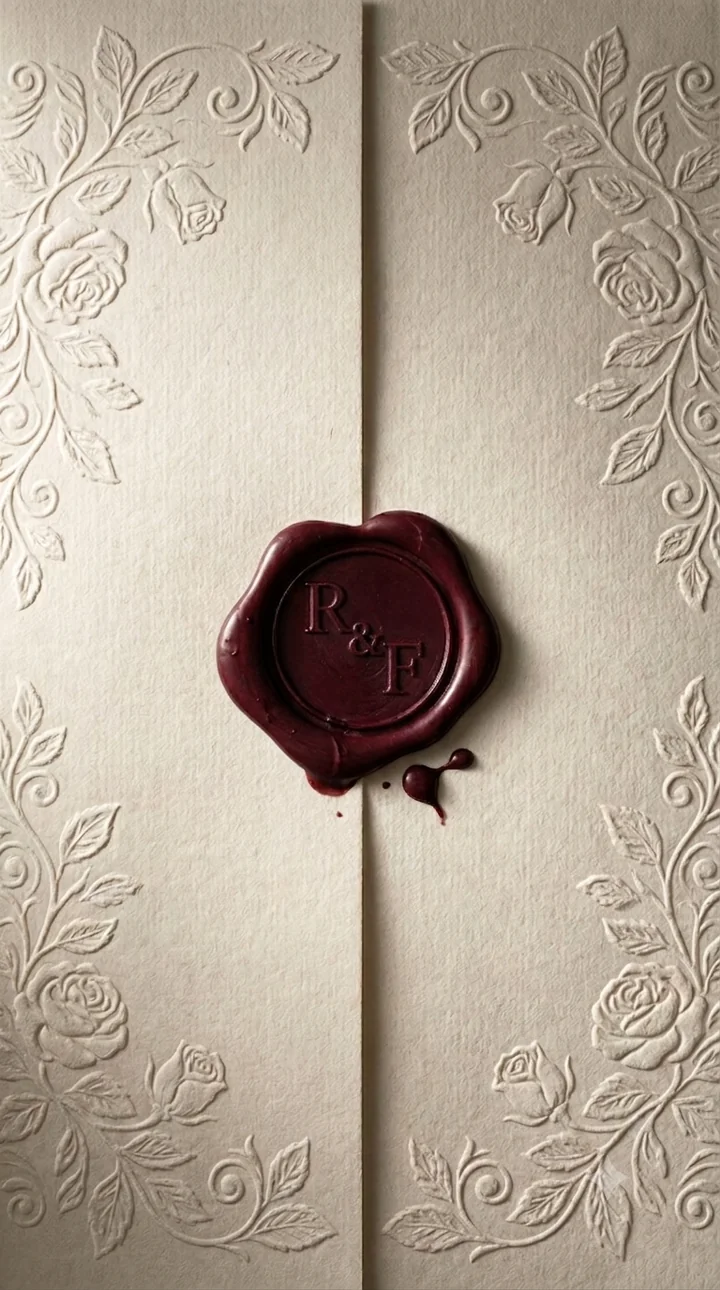
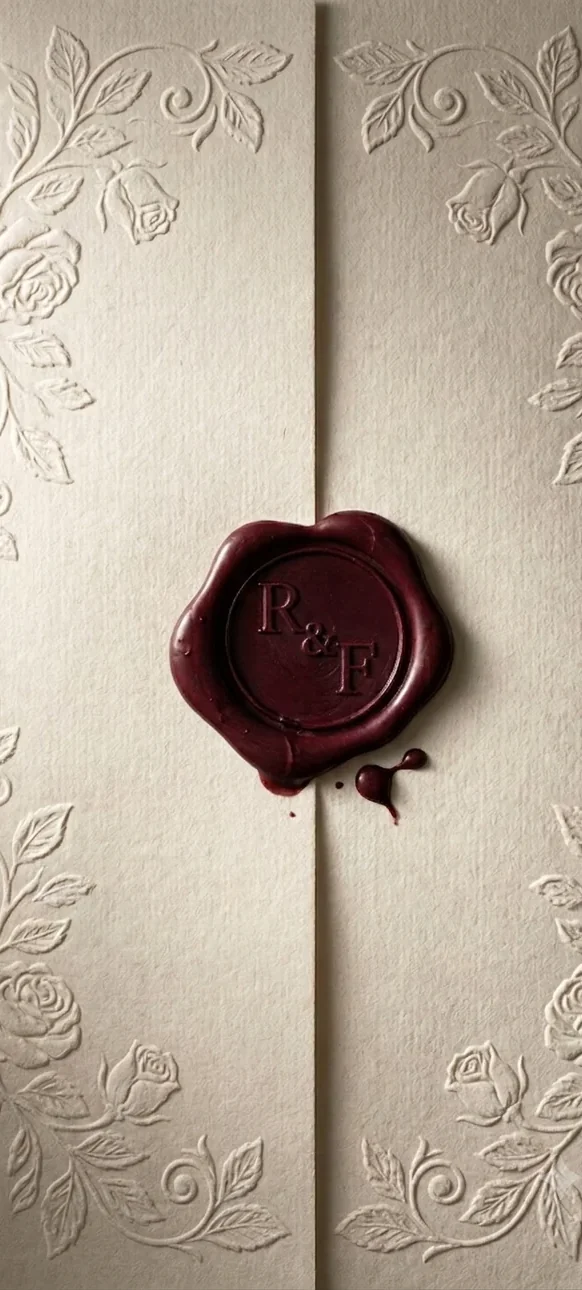
feat: ubicaciones 24hrs, Banamex, quitar eyebrow mesa-regalos, texto bienvenida/vestimenta nuevos, recortar marca Veo del sobre (img+video)

Changed region(s): [[0.0, 0.0, 1.0, 1.0], [0.2784, 0.4651, 0.3402, 0.5581], [0.7423, 0.2481, 0.7732, 0.2791]]

diff --git a/index.html b/index.html
@@ -1089,7 +1089,7 @@ h2 em{font-family:var(--script)!important;font-style:normal!important;color:var(
 <div id="envelope-screen" role="button" aria-label="Toca para abrir la invitación" tabindex="0">
   <img id="env-image" src="sobre.webp" alt="">
   <video id="env-video" muted playsinline preload="auto">
-    <source src="https://bsjoelxktbvlavfoozhk.supabase.co/storage/v1/object/public/fotos-clientes/video/boda-fernanda-y-ricardo/sobre3.mp4" type="video/mp4">
+    <source src="https://bsjoelxktbvlavfoozhk.supabase.co/storage/v1/object/public/fotos-clientes/video/boda-fernanda-y-ricardo/sobre4.mp4" type="video/mp4">
   </video>
   <div id="env-hint">
     <span class="eh-row"><span class="eh-line"></span><span class="eh-txt">Toca para abrir</span><span class="eh-line"></span></span>
@@ -1175,7 +1175,7 @@ h2 em{font-family:var(--script)!important;font-style:normal!important;color:var(
       <img class="bienv-dog" src="chihuahua.webp" alt="Nuestro chihuahua con moño, mascota de los novios">
       <div class="eyebrow">Bienvenidos</div>
       <h2>Con mucha <em>alegría</em></h2>
-      <p class="bienv-text">Después de tantos momentos compartidos —y de la fiel compañía de nuestro pequeño de cuatro patas— decidimos unir nuestros caminos para toda la vida. Nos encantaría que seas parte de este día tan importante para nosotros.</p>
+      <p class="bienv-text">Dicen que algunas personas están destinadas a encontrarse.<br><br>Después de años de amistad, coincidencias que parecían señales y muchos deseos compartidos al ver las 11:11, nació una historia que jamás imaginamos.<br><br>Hoy celebramos el inicio de nuestro para siempre y nos llenaría de alegría compartir este momento tan especial contigo.</p>
     </div>
   </section>
 
@@ -1252,7 +1252,7 @@ h2 em{font-family:var(--script)!important;font-style:normal!important;color:var(
           <div class="soft-img"><img src="iglesia.webp" alt="Santuario de San Francisco de Asís en acuarela" loading="lazy"></div>
           <div class="loc-type">Ceremonia Religiosa</div>
           <div class="loc-name">Santuario de San Francisco de Asís</div>
-          <div class="loc-time">5:00 PM</div>
+          <div class="loc-time">17:00</div>
           <div class="loc-addr">Lic. Benito Juárez 594A<br>Zona Centro, 25000 · Saltillo, Coah.</div>
           <a class="loc-btn" href="https://maps.google.com/?cid=3488210108793462537" target="_blank" rel="noopener">Cómo llegar</a>
         </article>
@@ -1261,7 +1261,7 @@ h2 em{font-family:var(--script)!important;font-style:normal!important;color:var(
           <div class="soft-img"><img src="salon.webp" alt="Jardín y Salón Montecielo en acuarela" loading="lazy"></div>
           <div class="loc-type">Recepción</div>
           <div class="loc-name">Jardín &amp; Salón Montecielo</div>
-          <div class="loc-time">9:00 PM</div>
+          <div class="loc-time">21:00</div>
           <div class="loc-addr">Arteaga, 25354 · Coahuila<br>Civil &amp; cóctel desde las 6:30 PM</div>
           <a class="loc-btn" href="https://maps.google.com/?cid=14833657692889864227" target="_blank" rel="noopener">Cómo llegar</a>
         </article>
@@ -1419,8 +1419,8 @@ h2 em{font-family:var(--script)!important;font-style:normal!important;color:var(
         <div class="dress-card">
           <h3 class="dress-card-title">Etiqueta formal</h3>
           <p>Les pedimos vestir formalmente para acompañarnos en este día tan especial.</p>
-          <p><strong>Caballeros</strong> · Traje completo y zapato formal. Sin tenis ni mezclilla.</p>
-          <p><strong>Damas</strong> · Vestido largo. Sin plateado, dorado, pastel ni colores claros.</p>
+          <p><strong>Caballeros</strong> · Traje completo y calzado formal. Agradecemos evitar el uso de tenis, mezclilla y cualquier prenda de estilo casual.</p>
+          <p><strong>Damas</strong> · Vestido largo elegante. Les agradecemos evitar los tonos plateado, dorado y claros.</p>
           <p class="dress-tip">Recomendamos evitar el tacón de aguja: la celebración tiene área de jardín, por lo que un tacón cómodo, de bloque o flats serán mucho más cómodos.</p>
           <p style="font-family:var(--italiana);font-size:14px;letter-spacing:.05em;color:var(--ink-soft);margin:18px auto 26px;text-transform:none">El blanco es exclusivo de la novia.</p>
           <button class="dress-insp-btn" id="dress-insp-btn" type="button">
@@ -1474,7 +1474,6 @@ h2 em{font-family:var(--script)!important;font-style:normal!important;color:var(
   <section class="section-surface gifts" style="padding:min(12vh,110px) 0 min(14vh,130px);text-align:center;" aria-label="Mesa de regalos">
     <div class="container">
       <div class="gifts-head">
-        <div class="eyebrow rv">Mesa de regalos</div>
         <h2 style="margin-bottom:16px;">Un detalle <em>de corazón</em></h2>
         <p class="gifts-sub">Ya tenemos todo lo necesario para nuestro hogar. Pero si deseas tener un detalle con nosotros, agradeceremos de corazón cualquier aportación en sobre o transferencia.</p>
       </div>
@@ -1539,15 +1538,9 @@ h2 em{font-family:var(--script)!important;font-style:normal!important;color:var(
       <!-- CLABES -->
       <div class="clabe-grid">
         <div class="clabe-card">
-          <div class="clabe-bank">BBVA</div>
-          <div class="clabe-holder">Fernanda Ruiz</div>
-          <div class="clabe-num" data-clabe="012580015518971797" title="Toca para copiar">012580015518971797</div>
-          <div class="clabe-hint">Toca para copiar</div>
-        </div>
-        <div class="clabe-card">
-          <div class="clabe-bank">BBVA</div>
-          <div class="clabe-holder">Ricardo Acosta</div>
-          <div class="clabe-num" data-clabe="012580015178085450" title="Toca para copiar">012580015178085450</div>
+          <div class="clabe-bank">Banamex</div>
+          <div class="clabe-holder">Fernanda &amp; Ricardo</div>
+          <div class="clabe-num" data-clabe="002580904727297396" title="Toca para copiar">002580904727297396</div>
           <div class="clabe-hint">Toca para copiar</div>
         </div>
       </div>
